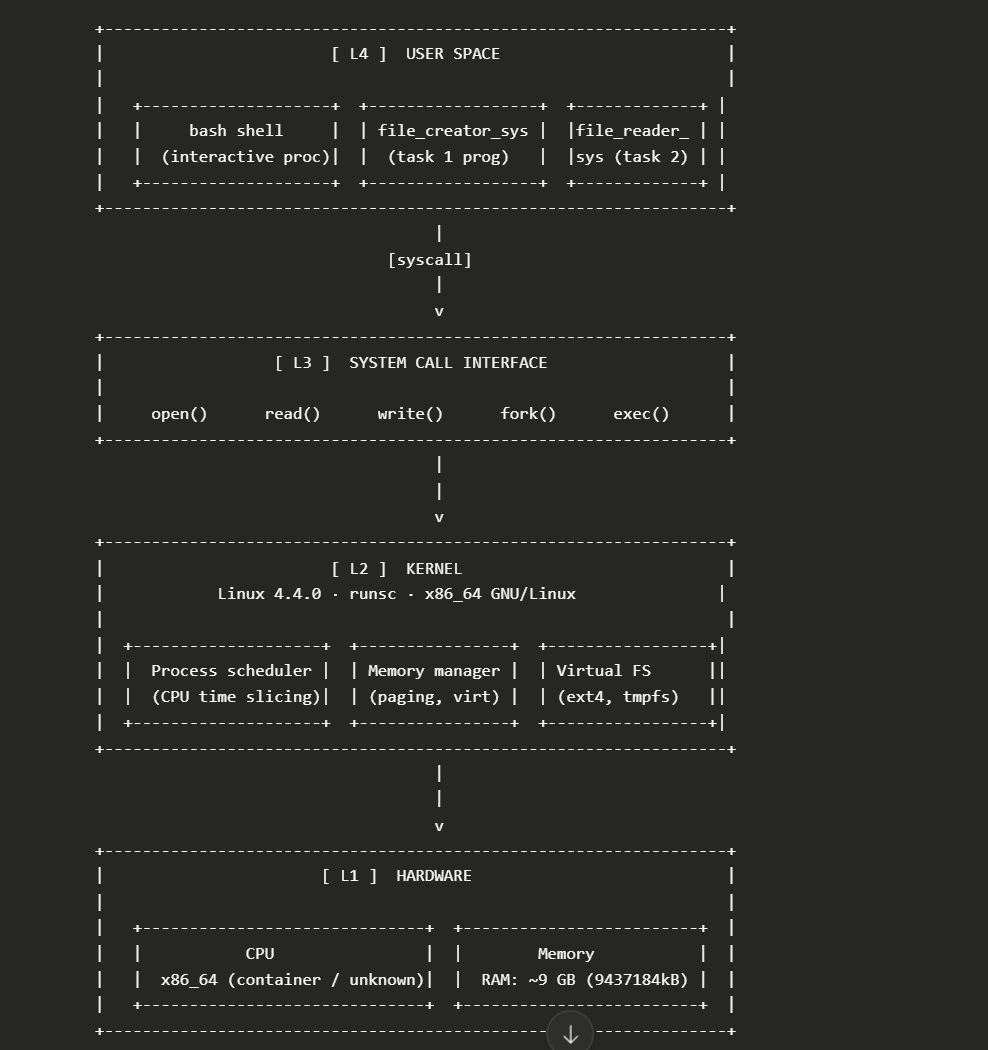
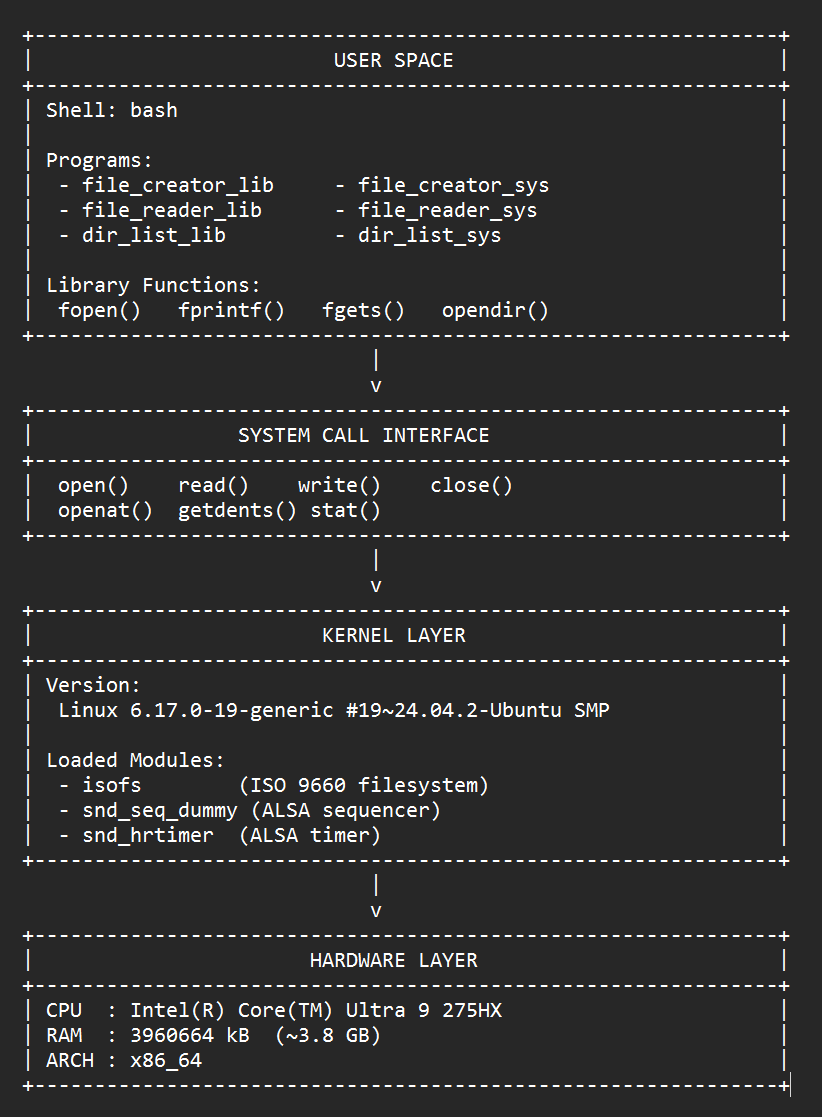
redraw os layer diagran

diff --git a/os-class-activities-p20240019/acitivity1/README.md b/os-class-activities-p20240019/acitivity1/README.md
@@ -157,7 +157,7 @@ Screenshot of running on Windows:
 
 <!-- Screenshot of `strace -c` output for both versions -->
 ![strace summary - Library](screenshots/strace_summary_lib.png)
-![strace summary - Syscall](screenshots/strace_summary_sys.png)
+![strace summary - Syscall](screenshots/strace_summary_reader.png)
 
 ### Questions
 
@@ -173,7 +173,7 @@ Screenshot of running on Windows:
 
    > just one 
    ```write(3, "Hello from Operating Systems cla"..., 36) = 36```
-   
+
 4. **In your own words, what is the real difference between a library function and a system call?**
 
    > A library function runs in user space and adds convenience like  error handling. A system call is a direct request to the kernel. 
